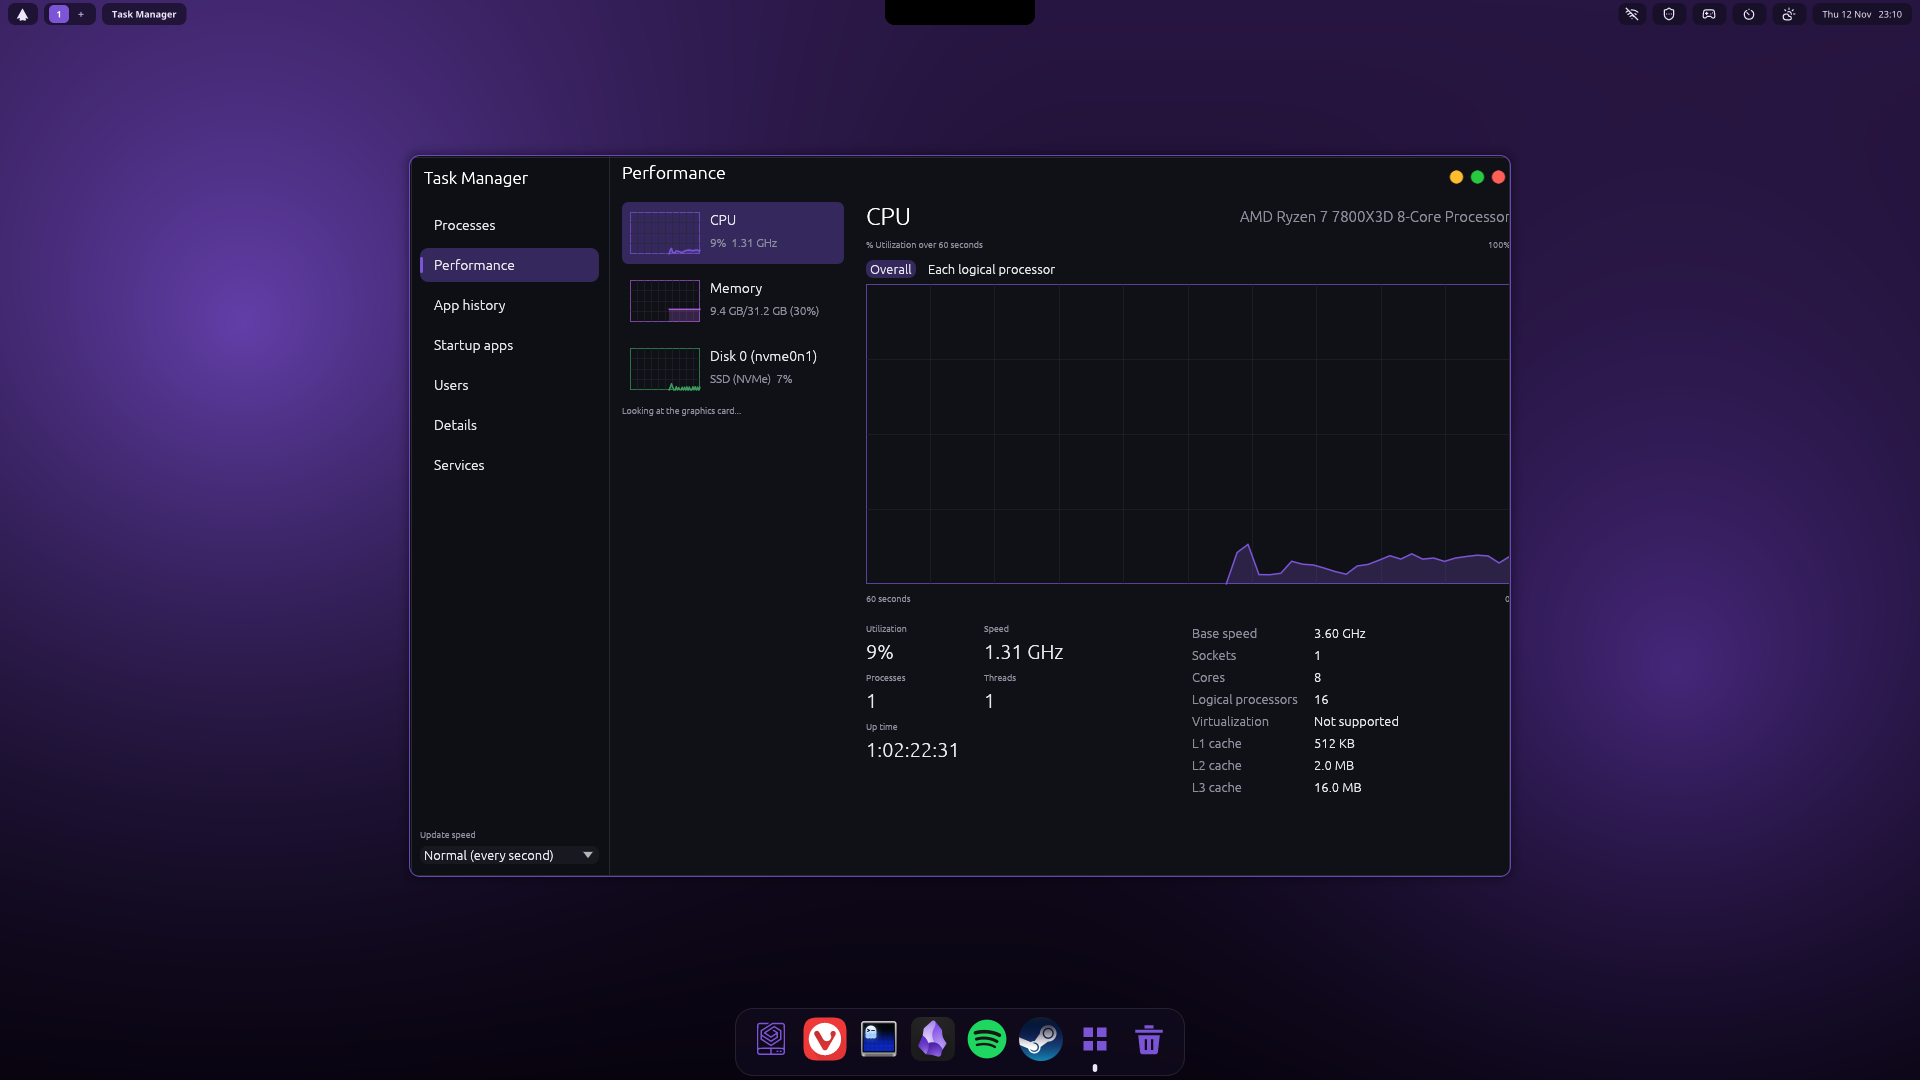
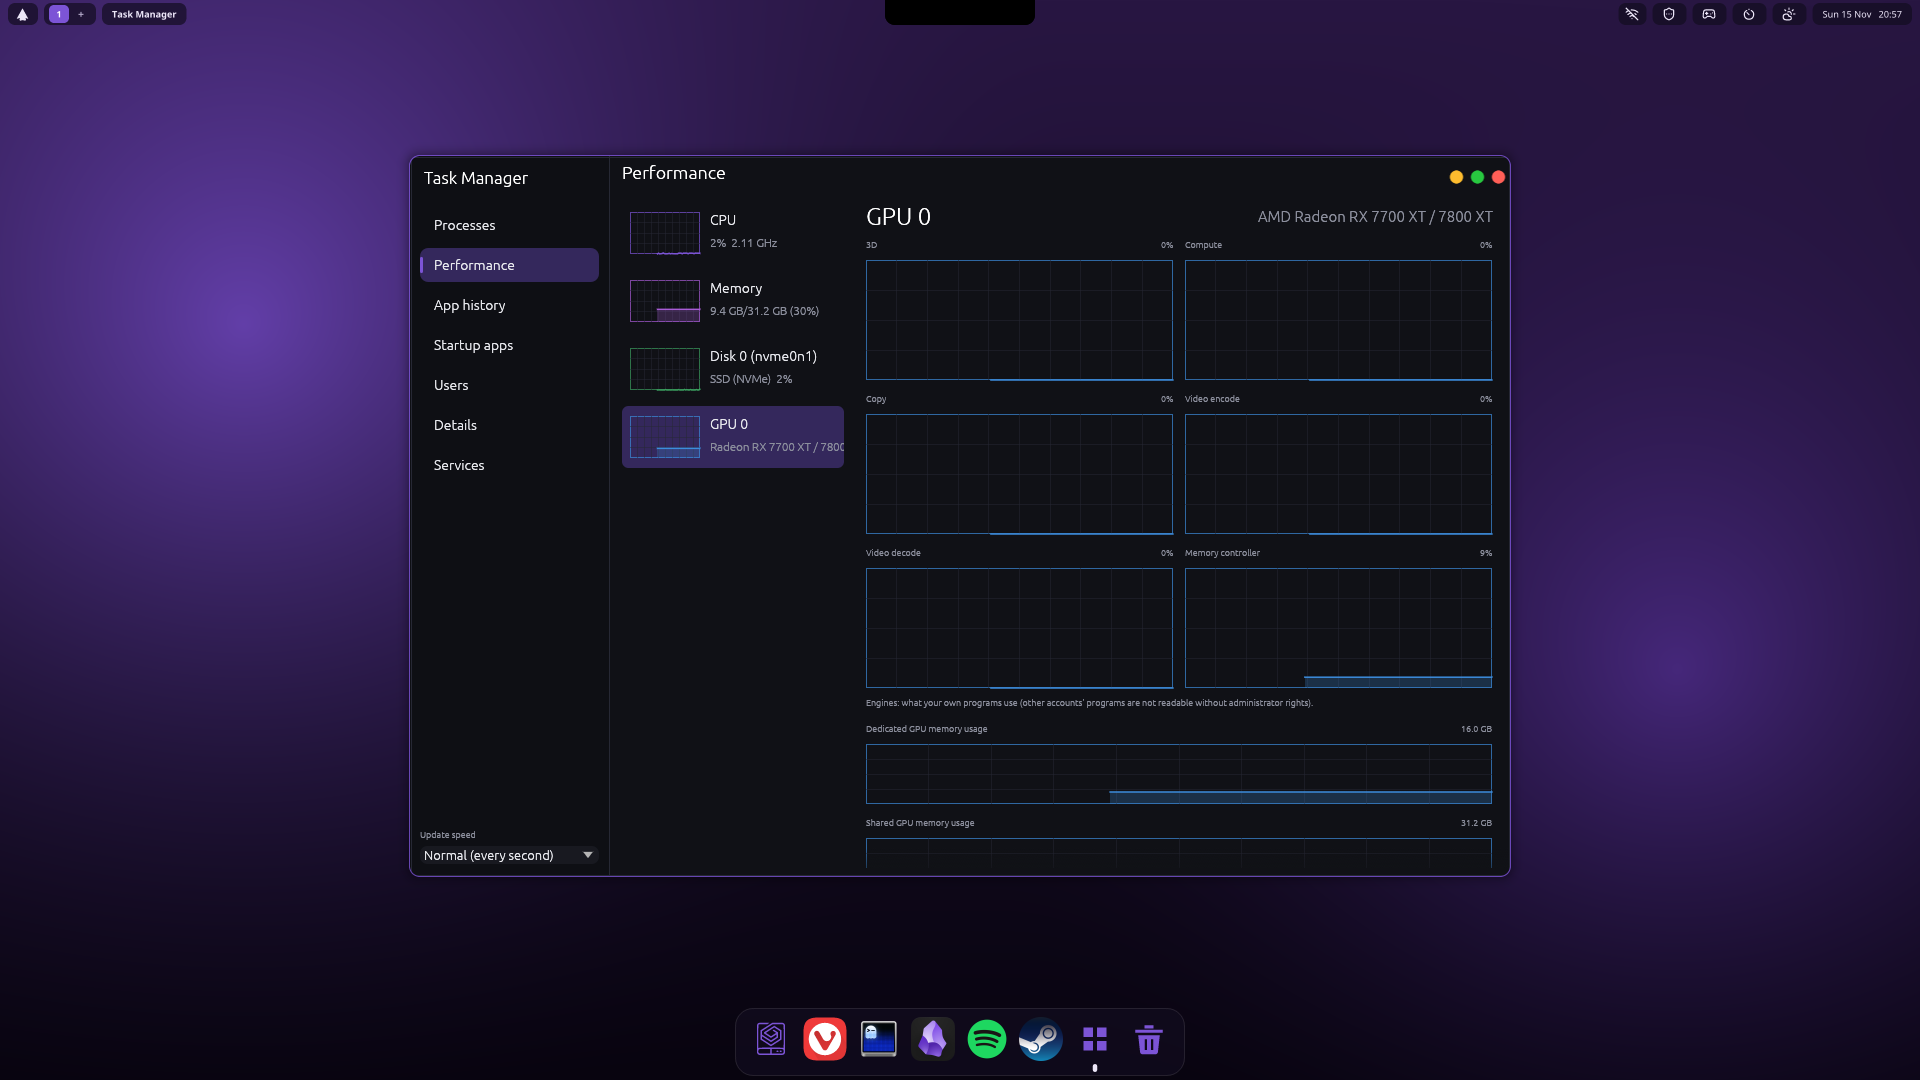
Screenshots: the Task Manager's GPU page and Processes, Security > Privacy, Minos' privacy menu
scripts/screenshots.sh gains three pictures (taskmanager-processes, settings-security-privacy,
minos-privacy-menu) and makes taskmanager.png on a graphics card's page. The desktop sandbox gets a
made-up AMD card's sysfs files over /sys/class/drm (tests/screenshots/drm), so the Task Manager never
shows the real cards; a stand-in heimdall-strip and a short silent recording in ~/Music show Minos'
Privacy entries. The README, the Task Manager's README and APPS_SETTINGS.md show them.

diff --git a/README.md b/README.md
@@ -202,6 +202,8 @@ Applications are shown as windows on a 1920×1080 desktop, in the dark style. Ev
 | *Settings: Games. The graphics cards (with two or more, a Steam launch option runs a game on the one you pick), game fixes with Undo, and frame generation per game.* | *Settings: Peripherals > Mouse. Pointer speed, acceleration, scrolling and the main button, for every mouse or one by one.* |
 | ![Minos](assets/screenshots/minos-explorer.png) | ![The Task Manager](assets/screenshots/taskmanager.png) |
 | *Minos, the file manager: tabs, places, details.* | *The Task Manager (Ctrl + Shift + Esc): Performance, a graphics card's page.* |
+| ![Settings, Security, Privacy](assets/screenshots/settings-security-privacy.png) | ![Minos, right-click on a recording](assets/screenshots/minos-privacy-menu.png) |
+| *Settings: Security > Privacy. The private microphone and the privacy pack, each with its own switch, all on by default.* | *Minos: right-click > Scrub location sounds and Remove hidden info, each writing a cleaned copy beside the file.* |
 | ![Agora](assets/screenshots/marketplace.png) | ![Saga MD](assets/screenshots/saga-md.png) |
 | *Agora, the app store.* | *Saga MD, the Markdown reader.* |
 | ![The calculator](assets/screenshots/calculator.png) | ![The installer, keyboard](assets/screenshots/installer-keyboard.png) |
@@ -225,7 +227,7 @@ One command makes every picture above and in docs/ from this repository's own bu
 (`yggdrasil-compositor --headless`, [docs/COMPOSITOR.md](docs/COMPOSITOR.md)) with the panel, and never touches the running
 desktop: nothing opens on the screen, and it all runs in a bubblewrap sandbox with a blank /home, /run and /tmp, so the desktop's
 runtime folder, its session and system buses, the network and the input devices are not there. The made-up computer is in
-`tests/screenshots` (the account, a home folder with a few files, the processor and memory, a laptop's sensors, and
+`tests/screenshots` (the account, a home folder with a few files, the processor and memory, a graphics card, a laptop's sensors, and
 stand-ins for the programs the apps run directly) and in Settings' fixtures (`packages/settings/tests/fixtures`: `system.json`,
 `laptop.json`, `wifi.json`, `peripherals.json`, read only by a debug build). It takes about 10 minutes; each picture waits until
 the screen stops changing. The installer pictures use `yggdrasil-installer --demo PAGE`, and the lock screen is its test build

diff --git a/docs/APPS_SETTINGS.md b/docs/APPS_SETTINGS.md
@@ -265,6 +265,7 @@ About only when switched on, have no picture.
 | **Apps > Default Apps**: what opens each kind of file. | ![Settings > Apps > Default Apps](../assets/screenshots/settings-default-apps.png) |
 | **Games**: graphics cards, game fixes, frame generation per game. | ![Settings > Games](../assets/screenshots/settings-games.png) |
 | **Security**: the security monitor, the password logs, the distress password, Limbo, the private microphone. | ![Settings > Security](../assets/screenshots/settings-security.png) |
+| **Security > Privacy**: the private microphone and the privacy pack's four switches. | ![Settings > Security > Privacy](../assets/screenshots/settings-security-privacy.png) |
 | **Security > Distress password**: it opens only after your account password. | ![Settings > Security > Distress password](../assets/screenshots/settings-distress-open.png) |
 | **Security > Distress password, the settings**: the password, and how many times within how long. | ![Settings > Security > Distress password, the settings](../assets/screenshots/settings-distress.png) |
 | **Security > Distress password, the two sections**: Section 1, and Section 2 that asks for your password again. | ![Settings > Security > Distress password, the two sections](../assets/screenshots/settings-distress-sections.png) |

diff --git a/packages/taskmanager/README.md b/packages/taskmanager/README.md
@@ -3,7 +3,10 @@
 Yggdrasil's task manager (`yggdrasil-taskmanager`), laid out like the one on Windows 11, in the desktop's look (light or dark,
 the accent colour from Settings). Ctrl+Shift+Esc opens it; pressing it again brings the open one to the front.
 
-![The Task Manager, Performance](../../assets/screenshots/taskmanager.png)
+| | |
+| --- | --- |
+| ![The Task Manager, Processes](../../assets/screenshots/taskmanager-processes.png) | ![The Task Manager, a graphics card's page](../../assets/screenshots/taskmanager.png) |
+| *Processes, with the GPU, GPU engine and GPU memory columns.* | *Performance: a graphics card's engines and memory (a made-up AMD card; `scripts/screenshots.sh`).* |
 
 | Tab | What it shows and does |
 |:--|:--|
